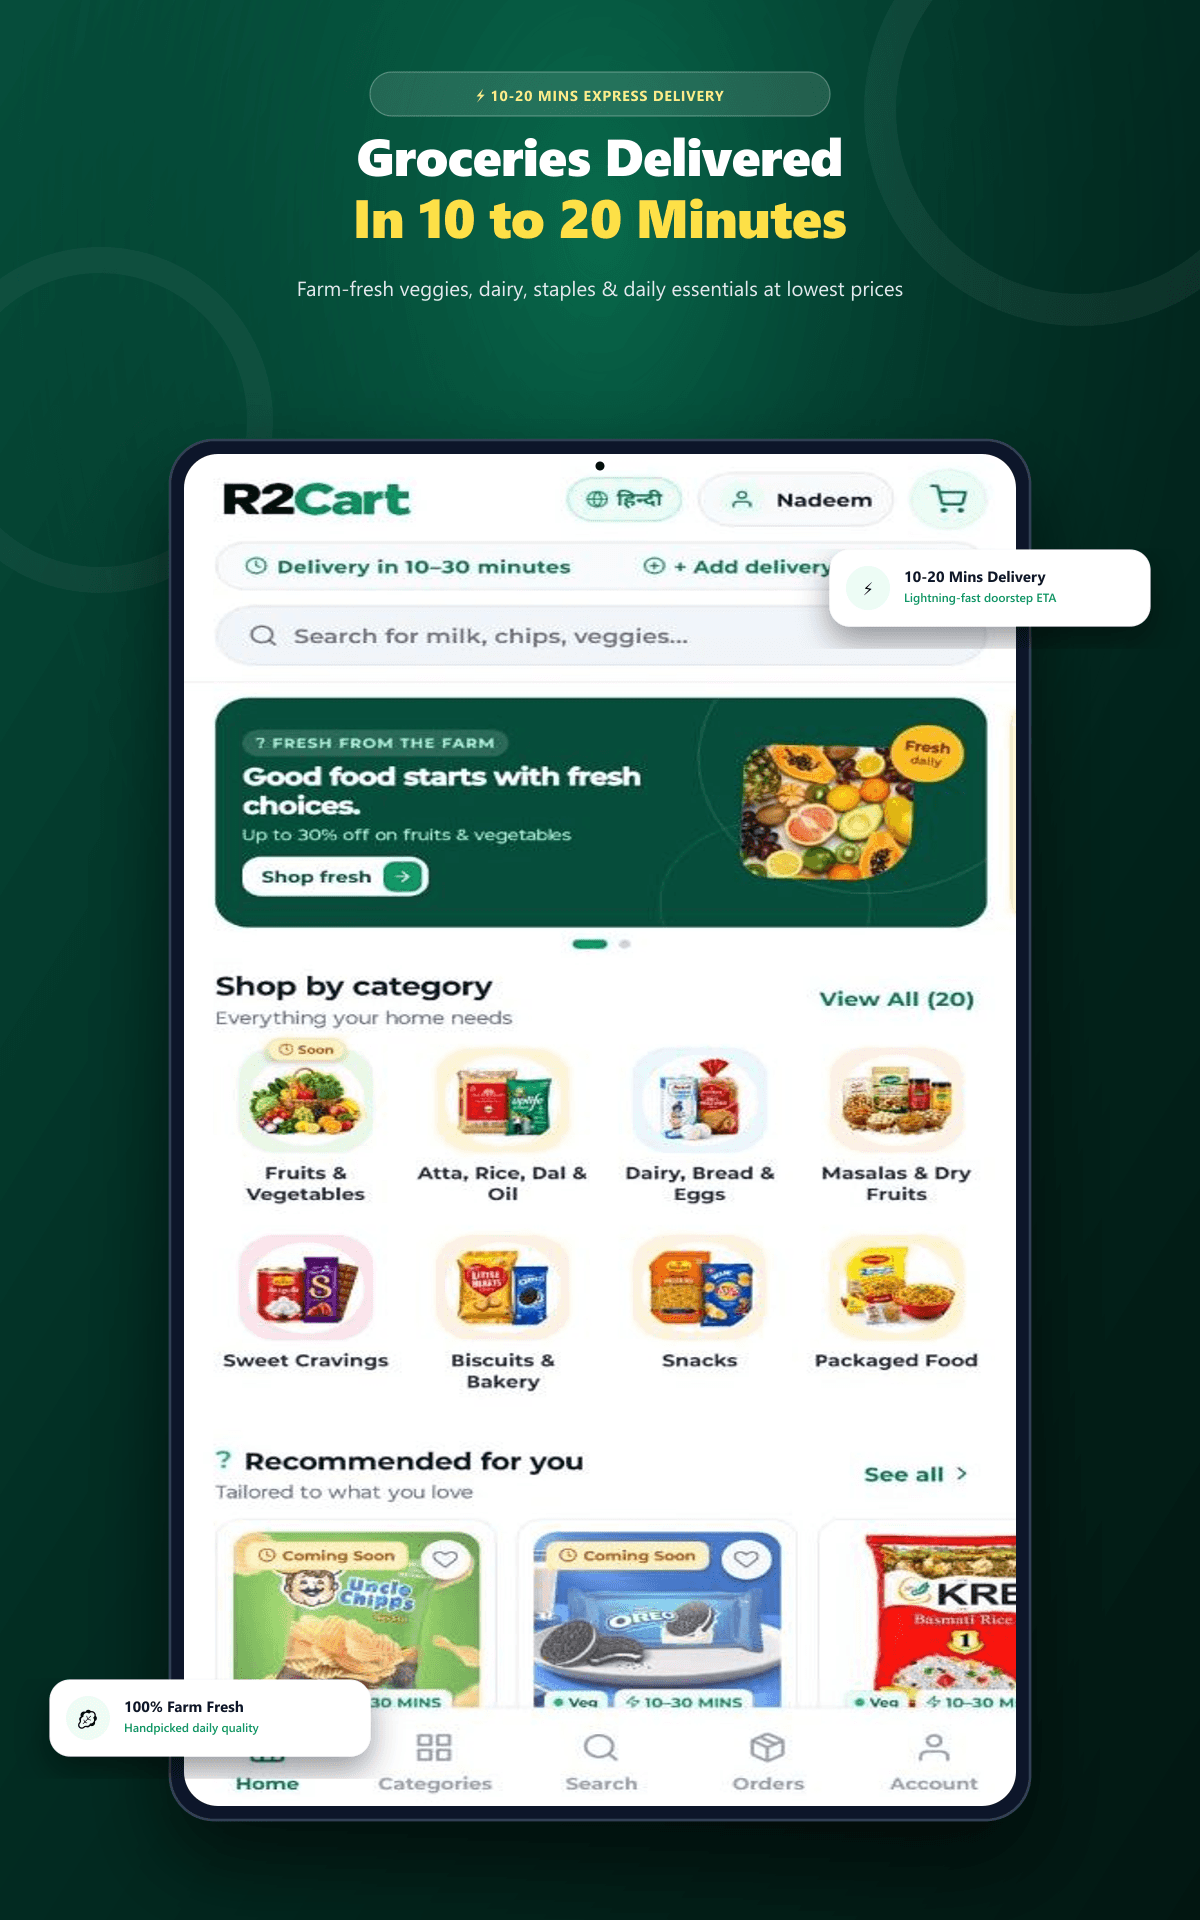
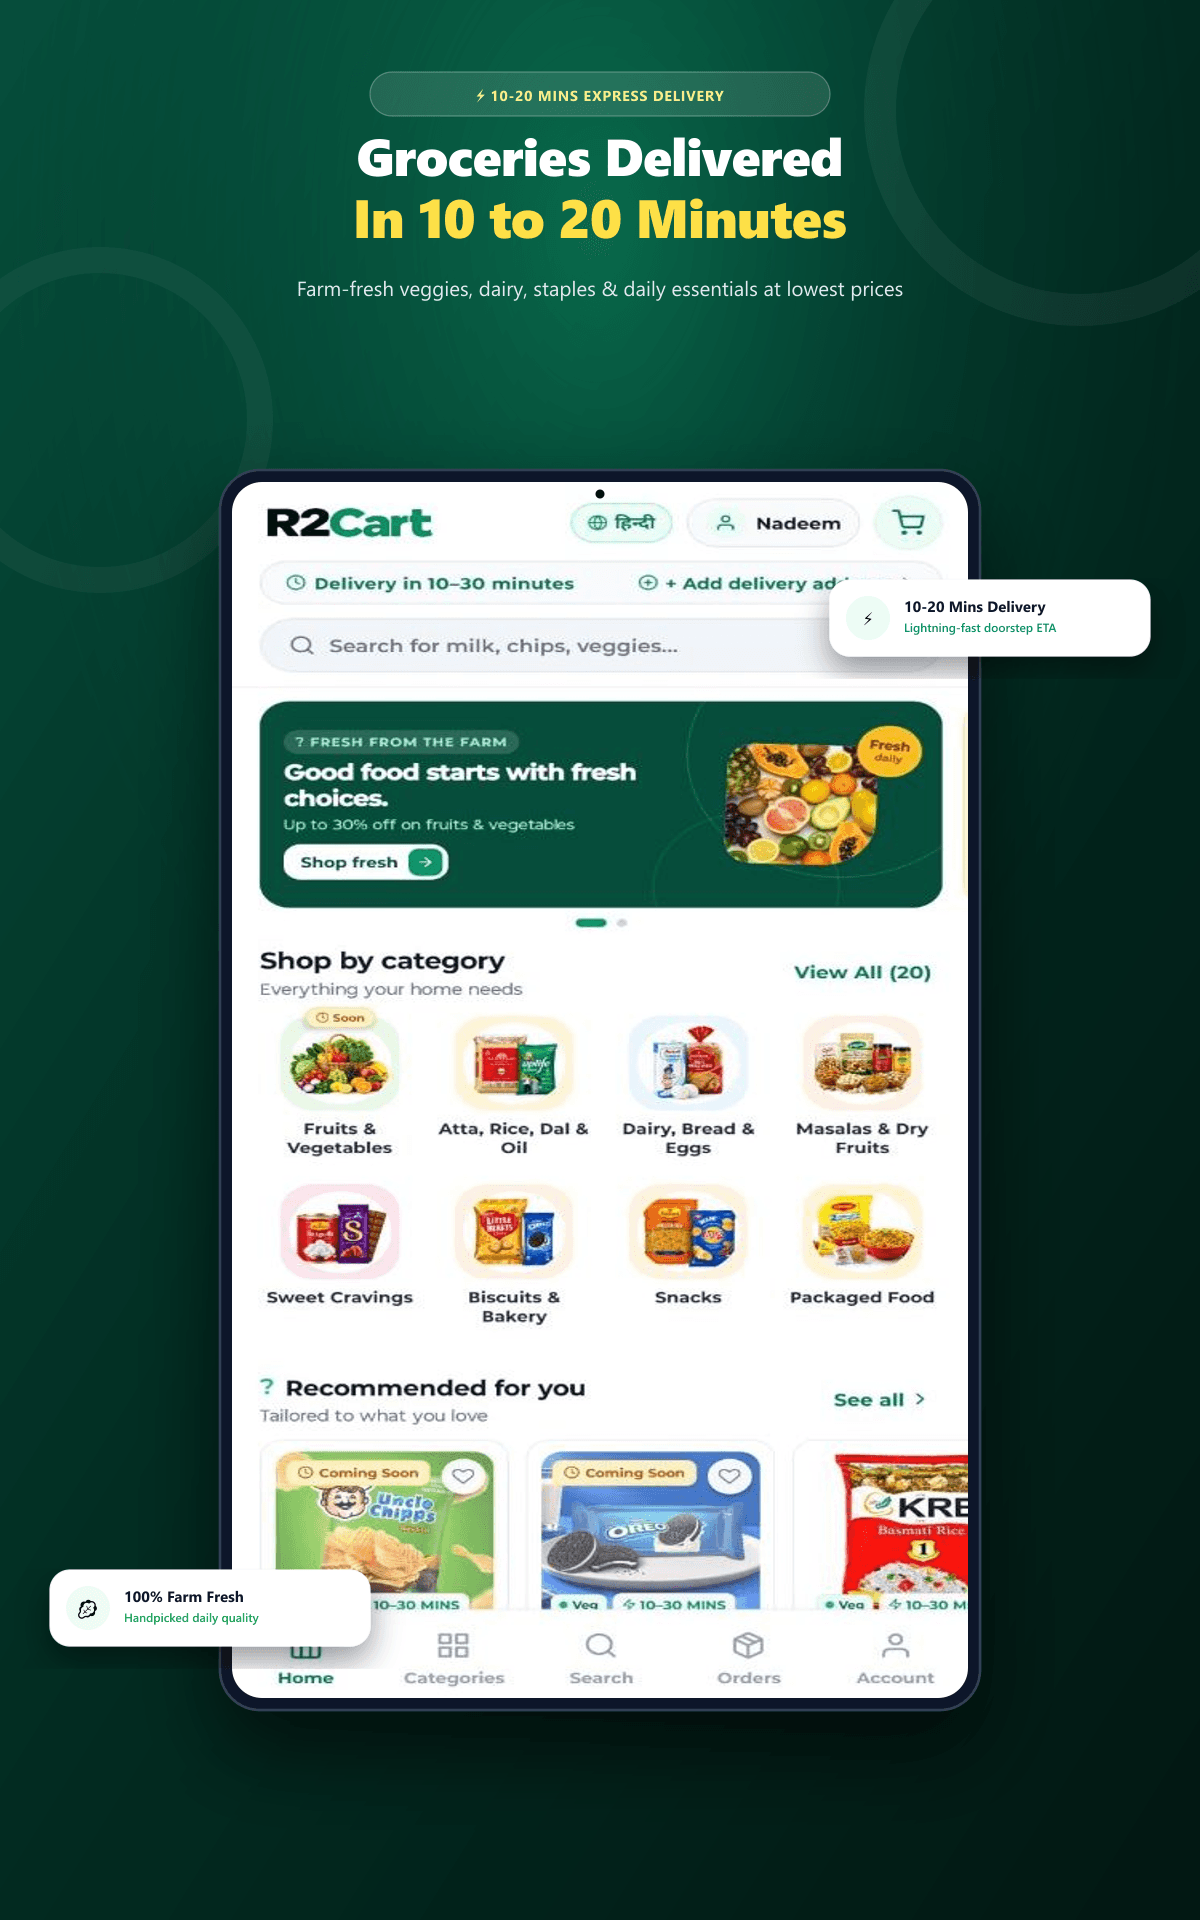
style(playstore): sleek & slim flagship phone mockup proportions with balanced margins

Changed region(s): [[0.0308, 0.2188, 0.9558, 0.9688]]

diff --git a/scripts/build_playstore_graphics.js b/scripts/build_playstore_graphics.js
@@ -243,19 +243,19 @@ async function generatePhoneScreenshots() {
   const canvasW = 1080;
   const canvasH = 2280;
 
-  // Phone Mockup Dimensions
-  const phoneW = 840;
-  const phoneH = 1680;
-  const phoneX = (canvasW - phoneW) / 2; // 120
-  const phoneY = 490;
-  const phoneRadius = 52;
+  // Phone Mockup Dimensions (Sleek, refined flagship proportions)
+  const phoneW = 710;
+  const phoneH = 1460;
+  const phoneX = (canvasW - phoneW) / 2; // 185 (clean 185px side margins)
+  const phoneY = 530;
+  const phoneRadius = 48;
 
-  const bezelWidth = 14;
-  const screenW = phoneW - (bezelWidth * 2); // 812
-  const screenH = phoneH - (bezelWidth * 2); // 1652
-  const screenX = phoneX + bezelWidth;       // 134
-  const screenY = phoneY + bezelWidth;       // 504
-  const screenRadius = 40;
+  const bezelWidth = 11;
+  const screenW = phoneW - (bezelWidth * 2); // 688
+  const screenH = phoneH - (bezelWidth * 2); // 1438
+  const screenX = phoneX + bezelWidth;       // 196
+  const screenY = phoneY + bezelWidth;       // 541
+  const screenRadius = 38;
 
   for (const cfg of SCREEN_CONFIGS) {
     const srcPath = SCREENSHOT_MAP[cfg.key];
@@ -264,22 +264,22 @@ async function generatePhoneScreenshots() {
     const screenBuffer = await prepareScreenContent(srcPath, screenW, screenH, screenRadius);
 
     // Dynamic Island dimensions
-    const islandW = 126;
-    const islandH = 30;
+    const islandW = 114;
+    const islandH = 26;
     const islandX = screenX + (screenW - islandW) / 2;
-    const islandY = screenY + 12;
+    const islandY = screenY + 11;
 
     // Floating Card 1 (Top-Right overlap)
     const card1W = 340;
-    const card1H = 82;
-    const card1X = canvasW - card1W - 40;
-    const card1Y = phoneY + 130;
+    const card1H = 80;
+    const card1X = canvasW - card1W - 40; // 700
+    const card1Y = phoneY + 140;
 
     // Floating Card 2 (Bottom-Left overlap)
     const card2W = 340;
-    const card2H = 82;
+    const card2H = 80;
     const card2X = 40;
-    const card2Y = phoneY + phoneH - 170;
+    const card2Y = phoneY + phoneH - 150;
 
     // Background SVG with full-bleed mesh, lighting glows, typography, titanium frame & drop shadows
     const backgroundSvg = `
@@ -450,18 +450,18 @@ async function generateTablet7Screenshots() {
   const canvasW = 1200;
   const canvasH = 1920;
 
-  const tabletW = 860;
-  const tabletH = 1380;
-  const tabletX = (canvasW - tabletW) / 2; // 170
-  const tabletY = 440;
-  const tabletRadius = 44;
+  const tabletW = 760;
+  const tabletH = 1240;
+  const tabletX = (canvasW - tabletW) / 2; // 220
+  const tabletY = 470;
+  const tabletRadius = 40;
 
-  const bezelWidth = 14;
-  const screenW = tabletW - (bezelWidth * 2); // 832
-  const screenH = tabletH - (bezelWidth * 2); // 1352
-  const screenX = tabletX + bezelWidth;       // 184
-  const screenY = tabletY + bezelWidth;       // 454
-  const screenRadius = 34;
+  const bezelWidth = 12;
+  const screenW = tabletW - (bezelWidth * 2); // 736
+  const screenH = tabletH - (bezelWidth * 2); // 1216
+  const screenX = tabletX + bezelWidth;       // 232
+  const screenY = tabletY + bezelWidth;       // 482
+  const screenRadius = 30;
 
   for (const cfg of SCREEN_CONFIGS) {
     const srcPath = SCREENSHOT_MAP[cfg.key];
@@ -595,18 +595,18 @@ async function generateTablet10Screenshots() {
   const canvasW = 1600;
   const canvasH = 2560;
 
-  const tabletW = 1180;
-  const tabletH = 1860;
-  const tabletX = (canvasW - tabletW) / 2; // 210
-  const tabletY = 580;
-  const tabletRadius = 54;
+  const tabletW = 1040;
+  const tabletH = 1660;
+  const tabletX = (canvasW - tabletW) / 2; // 280
+  const tabletY = 620;
+  const tabletRadius = 48;
 
-  const bezelWidth = 18;
-  const screenW = tabletW - (bezelWidth * 2); // 1144
-  const screenH = tabletH - (bezelWidth * 2); // 1824
-  const screenX = tabletX + bezelWidth;       // 228
-  const screenY = tabletY + bezelWidth;       // 598
-  const screenRadius = 42;
+  const bezelWidth = 16;
+  const screenW = tabletW - (bezelWidth * 2); // 1008
+  const screenH = tabletH - (bezelWidth * 2); // 1628
+  const screenX = tabletX + bezelWidth;       // 296
+  const screenY = tabletY + bezelWidth;       // 636
+  const screenRadius = 36;
 
   for (const cfg of SCREEN_CONFIGS) {
     const srcPath = SCREENSHOT_MAP[cfg.key];
